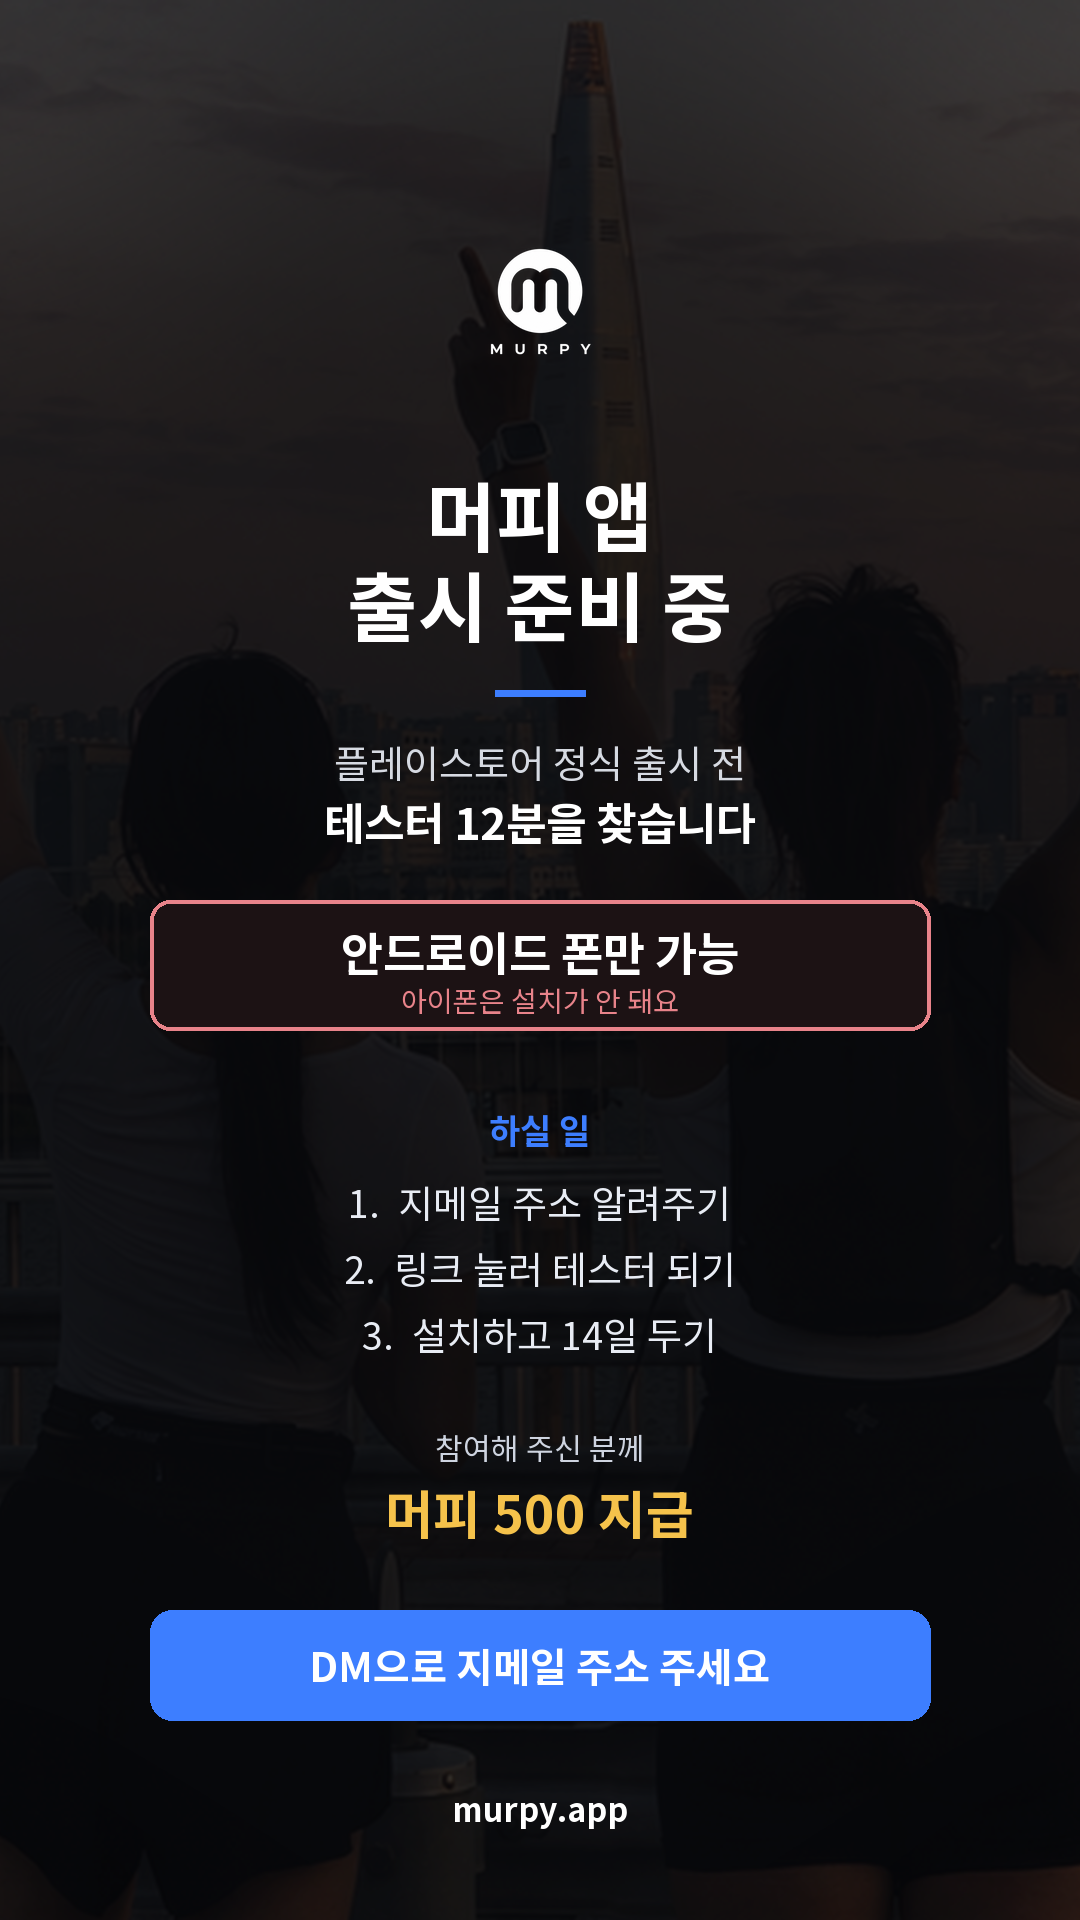
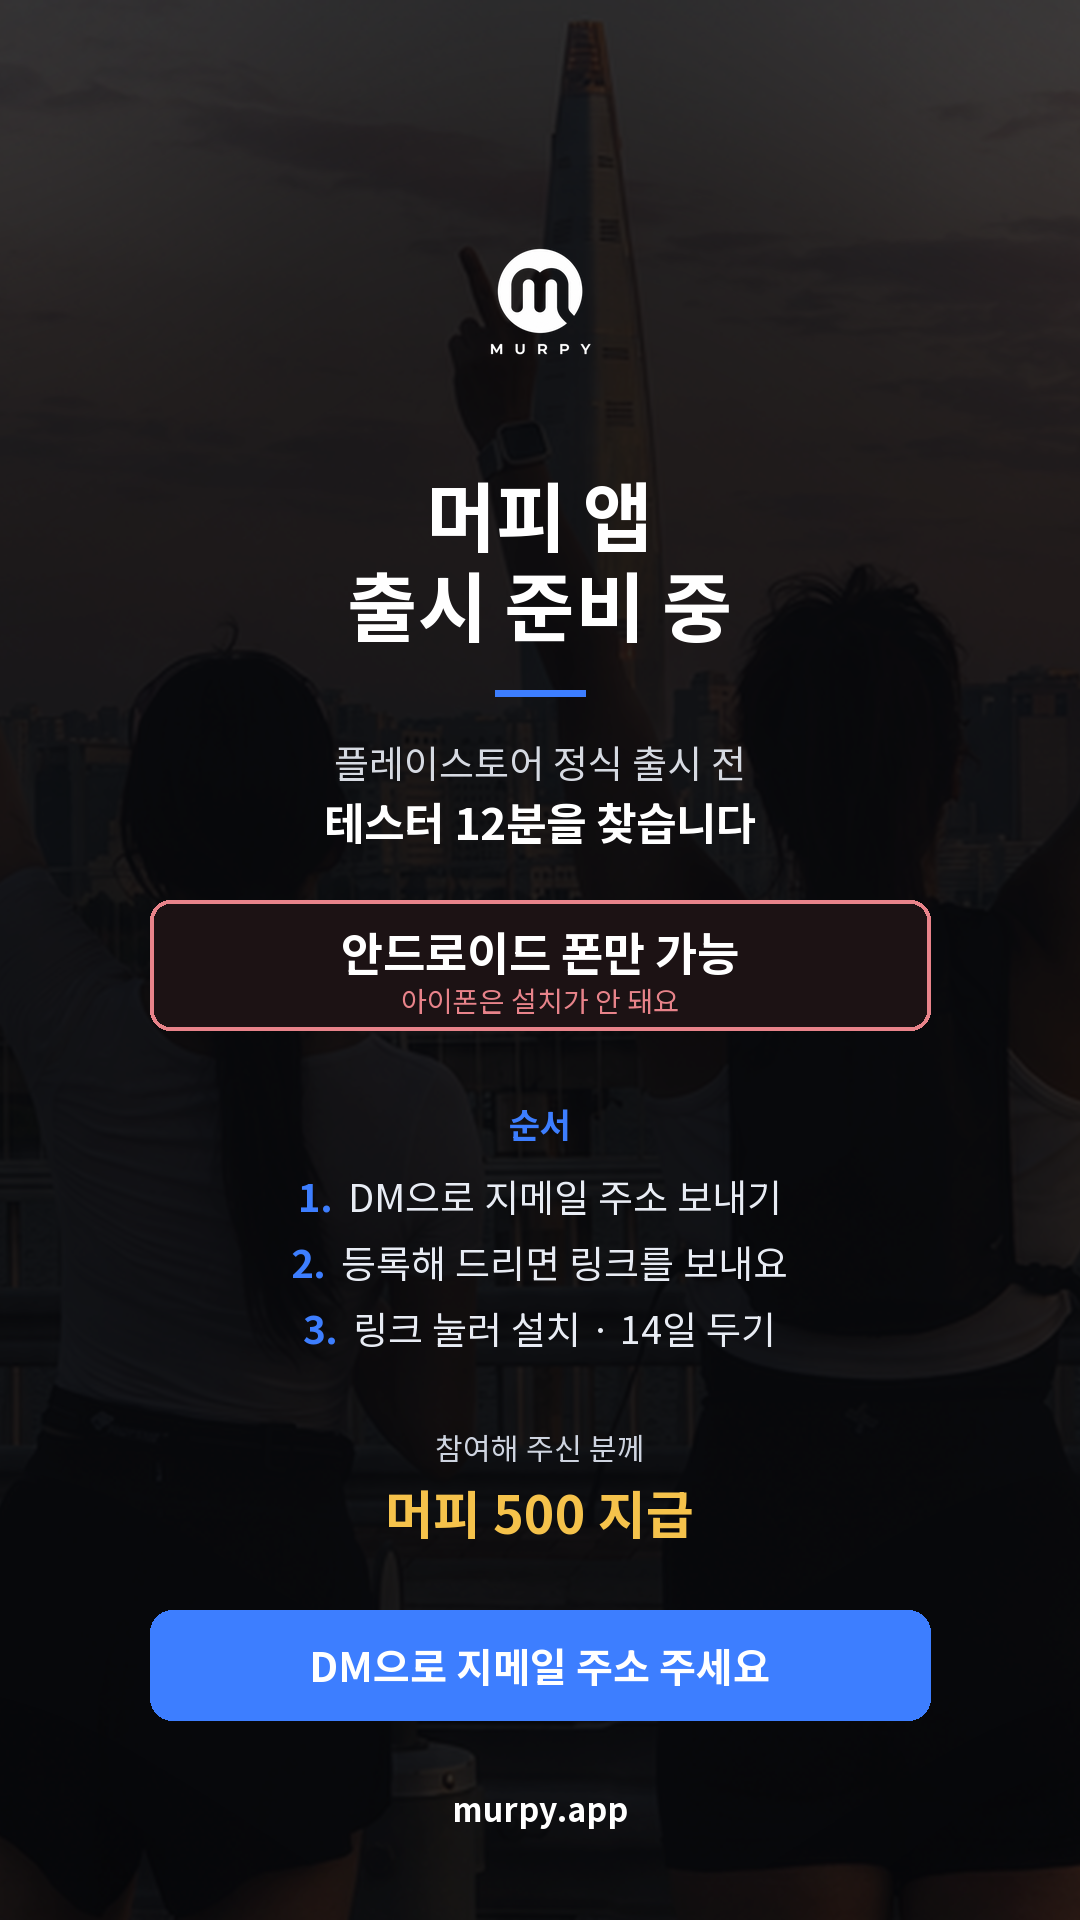
테스터 모집 스토리 — 순서를 사실대로 (등록이 먼저다)
대표 8-29: "링크 눌러 테스터 되기가 애초에 본인 메일이 해당이 있어야지"

★맞는 지적이다. 그 링크는 **테스터 목록에 등록된 계정에만** 열린다.
"링크 눌러 테스터 되기"로 적으면 아무나 누르면 되는 것처럼 읽히고,
그 상태로 뿌리면 전원이 "앱은 제공되지 않습니다"를 보고 포기한다(대표가 직접 겪음).

  1. DM으로 지메일 주소 보내기
  2. 등록해 드리면 링크를 보내요     <- 기다려야 한다는 것이 읽힌다
  3. 링크 눌러 설치 · 14일 두기

Claude-Session: https://claude.ai/code/session_01ArRUffiAwbv9smZrwmZVyj

Changed region(s): [[0.275, 0.5625, 0.7333, 0.7188]]

diff --git a/docs/promo/store/make_tester_story.py b/docs/promo/store/make_tester_story.py
@@ -76,15 +76,21 @@ center(925, '안드로이드 폰만 가능', font(46), (255, 255, 255))
 center(984, '아이폰은 설치가 안 돼요', font(28, False), (232, 131, 138))
 
 # ── 할 일
-center(1110, '하실 일', font(34), BLUE)
+center(1104, '순서', font(34), BLUE)
+# ★"링크 눌러 테스터 되기"로 적었더니 **아무나 링크만 누르면 되는 것처럼** 읽혔다(대표 8-29).
+#   실제로는 그 계정을 테스터 목록에 **먼저 등록**해야 링크가 열린다. 순서를 그대로 적는다.
 steps = [
-    '1.  지메일 주소 알려주기',
-    '2.  링크 눌러 테스터 되기',
-    '3.  설치하고 14일 두기',
+    ('1.', 'DM으로 지메일 주소 보내기'),
+    ('2.', '등록해 드리면 링크를 보내요'),
+    ('3.', '링크 눌러 설치 · 14일 두기'),
 ]
-y = 1180
-for s in steps:
-    center(y, s, font(38, False), (232, 236, 244))
+y = 1174
+for num, txt in steps:
+    fb, fr = font(38), font(38, False)
+    full = num + '  ' + txt
+    x = (W - d.textbbox((0, 0), full, font=fr)[2]) // 2
+    d.text((x, y), num, font=fb, fill=BLUE)
+    d.text((x + d.textbbox((0, 0), num + '  ', font=fr)[2], y), txt, font=fr, fill=(232, 236, 244))
     y += 66
 
 # ── 보상
